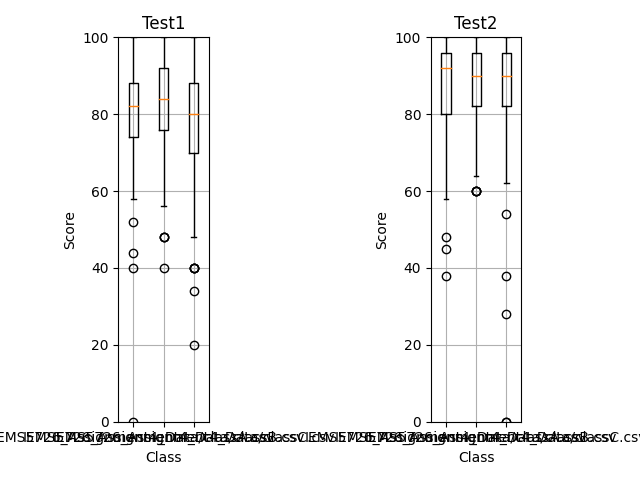
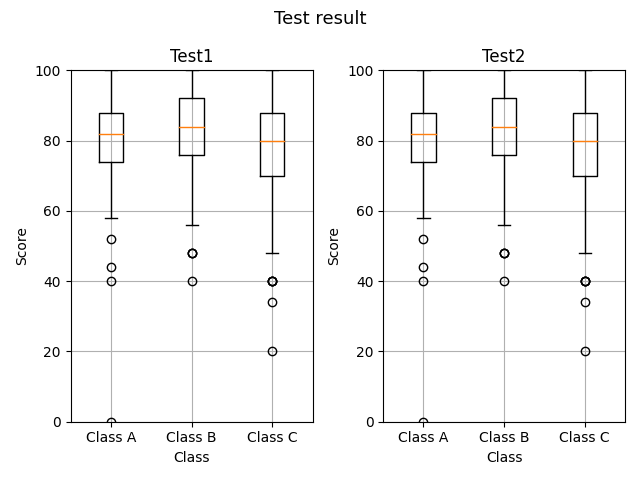
problem_2 commmit

diff --git a/IEMS5726 Data Science in Practice/IEMS5726_Assignment4_1155182964.py b/IEMS5726 Data Science in Practice/IEMS5726_Assignment4_1155182964.py
@@ -22,10 +22,12 @@ def problem_2(filenames):
     fig = plt.figure(tight_layout=True)
     # 分为一行二列
     gs = gridspec.GridSpec(1, 2)
+    plt.suptitle("Test result", fontsize=13, x=0.5, y=0.98)
     # test 1
     # 该figure的位置
     ax = fig.add_subplot(gs[0, 0])
-    ax.boxplot(data1, labels=filenames)
+    # ax.boxplot(data1, labels=filenames)
+    ax.boxplot(data1, labels=['Class A', 'Class B', 'Class C'])
     ax.set_title('Test1')
     ax.set_ylim([ymin, ymax])
     plt.xlabel("Class")
@@ -34,7 +36,8 @@ def problem_2(filenames):
     # test 2
     # 该figure的位置
     ax = fig.add_subplot(gs[0, 1])
-    ax.boxplot(data2, labels=filenames)
+    # ax.boxplot(data2, labels=filenames)
+    ax.boxplot(data1, labels=['Class A', 'Class B', 'Class C'])
     ax.set_title('Test2')
     ax.set_ylim([ymin, ymax])
     plt.xlabel("Class")
